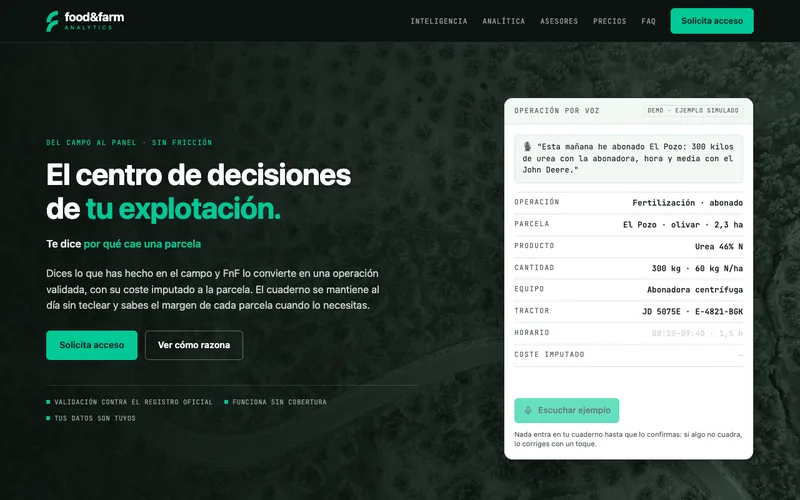
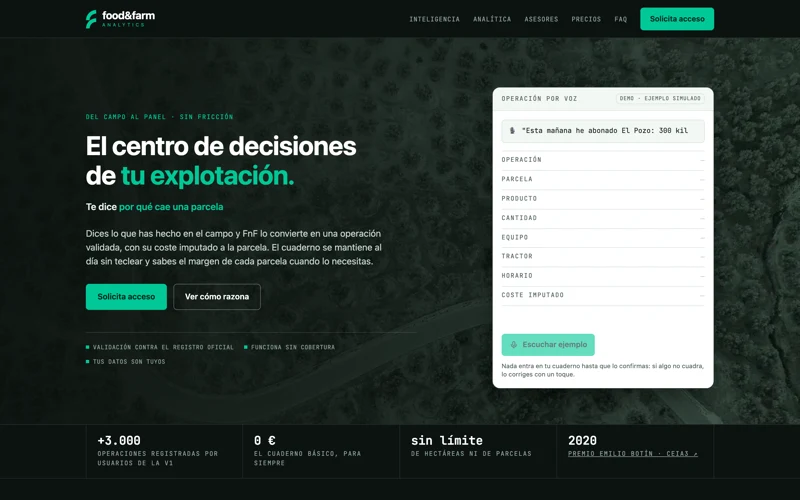
feat(proyectos): portadas nuevas (captura limpia, en español, 2x retina)
- Recaptura de las cuatro: se corrige el artefacto de animación que tapaba
  parte del subtítulo en la de Food & Farm Analytics.
- Todas en español, consistente con el idioma por defecto del sitio.
- Añade variante 1600w (2x) para pantallas retina y la declara en el srcset.

diff --git a/index.html b/index.html
@@ -315,19 +315,19 @@
       </div>
       <div class="proyectos">
         <a class="card rev" href="https://fnfanalytics.com/" target="_blank" rel="noopener" data-umami-event="web-fnf">
-          <img src="images/proyectos/fnf.webp" srcset="images/proyectos/fnf-480.webp 480w, images/proyectos/fnf.webp 800w" sizes="(max-width: 760px) calc(100vw - 48px), 530px" alt="Portada de Food &amp; Farm Analytics" width="800" height="500" loading="lazy">
+          <img src="images/proyectos/fnf.webp" srcset="images/proyectos/fnf-480.webp 480w, images/proyectos/fnf.webp 800w, images/proyectos/fnf-1600.webp 1600w" sizes="(max-width: 760px) calc(100vw - 48px), 530px" alt="Portada de Food &amp; Farm Analytics" width="800" height="500" loading="lazy">
           <div class="txt"><span class="label" data-i18n="fnf.tag">Agro · Premio Emilio Botín 2020</span><h3>Food &amp; Farm Analytics</h3><p data-i18n="fnf.p">El agricultor dicta lo que ha hecho y la IA lo convierte en una operación validada contra el registro oficial, con su coste por parcela.</p></div>
         </a>
         <a class="card rev" href="/reports/" data-umami-event="web-reports">
-          <img src="images/proyectos/reports.webp" srcset="images/proyectos/reports-480.webp 480w, images/proyectos/reports.webp 800w" sizes="(max-width: 760px) calc(100vw - 48px), 530px" alt="Portada de AI Reports" width="800" height="500" loading="lazy">
+          <img src="images/proyectos/reports.webp" srcset="images/proyectos/reports-480.webp 480w, images/proyectos/reports.webp 800w, images/proyectos/reports-1600.webp 1600w" sizes="(max-width: 760px) calc(100vw - 48px), 530px" alt="Portada de AI Reports" width="800" height="500" loading="lazy">
           <div class="txt"><span class="label" data-i18n="rep.tag">Pipeline de agentes · generado con IA</span><h3>AI Reports</h3><p data-i18n="rep.p">Un pipeline que investiga, redacta y verifica sus fuentes. Publica un informe cada día desde mayo. Los textos los escribe la IA.</p></div>
         </a>
         <a class="card rev" href="https://bookreader.raiatech.com/" target="_blank" rel="noopener" data-umami-event="web-bookreader">
-          <img src="images/proyectos/bookreader.webp" srcset="images/proyectos/bookreader-480.webp 480w, images/proyectos/bookreader.webp 800w" sizes="(max-width: 760px) calc(100vw - 48px), 530px" alt="Portada de Bookreader" width="800" height="500" loading="lazy">
+          <img src="images/proyectos/bookreader.webp" srcset="images/proyectos/bookreader-480.webp 480w, images/proyectos/bookreader.webp 800w, images/proyectos/bookreader-1600.webp 1600w" sizes="(max-width: 760px) calc(100vw - 48px), 530px" alt="Portada de Bookreader" width="800" height="500" loading="lazy">
           <div class="txt"><span class="label" data-i18n="br.tag">Raiatech · app web</span><h3>Bookreader</h3><p data-i18n="br.p">Un lector con IA que te explica lo que lees y te ayuda a recordarlo. Sin cuenta, en el navegador.</p></div>
         </a>
         <a class="card rev" href="https://arete.raiatech.com/" target="_blank" rel="noopener" data-umami-event="web-arete">
-          <img src="images/proyectos/arete.webp" srcset="images/proyectos/arete-480.webp 480w, images/proyectos/arete.webp 800w" sizes="(max-width: 760px) calc(100vw - 48px), 530px" alt="Portada de Areté" width="800" height="500" loading="lazy">
+          <img src="images/proyectos/arete.webp" srcset="images/proyectos/arete-480.webp 480w, images/proyectos/arete.webp 800w, images/proyectos/arete-1600.webp 1600w" sizes="(max-width: 760px) calc(100vw - 48px), 530px" alt="Portada de Areté" width="800" height="500" loading="lazy">
           <div class="txt"><span class="label" data-i18n="ar.tag">Raiatech · app web</span><h3>Areté</h3><p data-i18n="ar.p">Entrenamiento de fuerza y resistencia: siete dominios medidos con tests reales y un plan que se adapta.</p></div>
         </a>
       </div>
